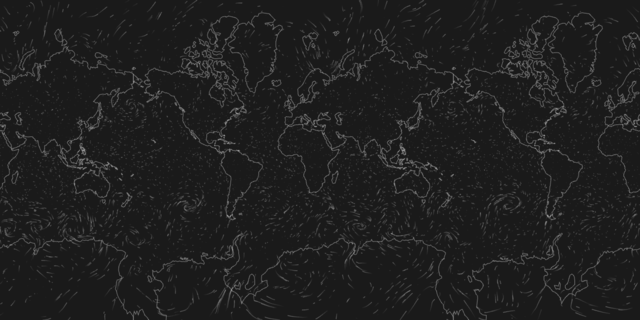
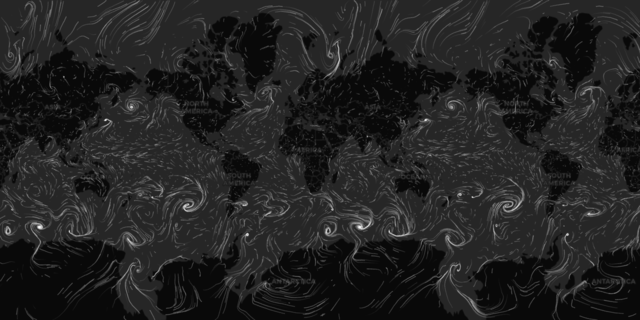
Use basemaps instead of land line

Changed region(s): [[0.0, 0.0, 1.0, 1.0], [0.5625, 0.2812, 0.5938, 0.3125], [0.0938, 0.9062, 0.125, 0.9375]]

diff --git a/docs/map.html b/docs/map.html
@@ -29,9 +29,6 @@
   <script type="module">
     import { initConfig, initGui, initFpsMeter } from './config.js';
 
-    const landUrl = 'https://d2ad6b4ur7yvpq.cloudfront.net/naturalearth-3.3.0/ne_110m_land.geojson';
-    const particleUrl = 'wind_data.png';
-
     window.addEventListener('DOMContentLoaded', () => {
       const config = initConfig();
 
@@ -76,30 +73,26 @@
       function update() {
         deckgl.setProps({
           layers: [
-            new deck.SolidPolygonLayer({
-              id: 'background',
-              data: [[[-180, 85.051129], [0, 85.051129], [180, 85.051129], [180, -85.051129], [0, -85.051129], [-180, -85.051129]]],
-              getPolygon: d => d,
-              stroked: false,
-              filled: true,
-              getFillColor: [26, 26, 26],
-            }),
-            new deck.GeoJsonLayer({
-              id: 'land',
-              data: landUrl,
-              stroked: true,
-              filled: false,
-              getLineColor: [255, 255, 255, 127],
-              getLineWidth: 1,
-              lineWidthUnits: 'pixels',
-              extensions: [new deck.ClipExtension()],
-              clipBounds: [-360, -85.051129, 360, 85.051129],
+            new deck.TileLayer({
+              id: 'basemap',
+              data: 'https://cartodb-basemaps-a.global.ssl.fastly.net/dark_all/{z}/{x}/{y}.png',
+              minZoom: 0,
+              maxZoom: 19,
+              tileSize: 256,
+              renderSubLayers: props => {
+                const {bbox: {west, south, east, north}} = props.tile;
+                return new deck.BitmapLayer(props, {
+                  data: null,
+                  image: props.data,
+                  bounds: [west, south, east, north]
+                });
+              },
             }),
             new DeckGlParticle.ParticleLayer({
               id: 'particle',
               maxAge: config.particle.maxAge,
               numParticles: config.particle.numParticles,
-              image: particleUrl,
+              image: 'wind_data.png',
               speedFactor: config.particle.speedFactor,
               color: config.particle.color,
               width: config.particle.width,

diff --git a/docs/globe.html b/docs/globe.html
@@ -30,9 +30,6 @@
     import { initConfig, initGui, initFpsMeter } from './config.js';
     import { Animation } from './animation.js';
 
-    const landUrl = 'https://d2ad6b4ur7yvpq.cloudfront.net/naturalearth-3.3.0/ne_50m_land.geojson';
-    const particleUrl = 'wind_data.png';
-
     window.addEventListener('DOMContentLoaded', () => {
       const config = initConfig();
 
@@ -84,19 +81,24 @@
               filled: true,
               getFillColor: [26, 26, 26],
             }),
-            new deck.GeoJsonLayer({
-              id: 'land',
-              data: landUrl,
-              stroked: true,
-              filled: false,
-              getLineColor: [255, 255, 255],
-              getLineWidth: 1,
-              lineWidthUnits: 'pixels',
-              opacity: 0.5,
+            new deck.TileLayer({
+              id: 'basemap',
+              data: 'https://cartodb-basemaps-a.global.ssl.fastly.net/dark_all/{z}/{x}/{y}.png',
+              minZoom: 0,
+              maxZoom: 19,
+              tileSize: 256,
+              renderSubLayers: props => {
+                const {bbox: {west, south, east, north}} = props.tile;
+                return new deck.BitmapLayer(props, {
+                  data: null,
+                  image: props.data,
+                  bounds: [west, south, east, north]
+                });
+              },
             }),
             new DeckGlParticle.ParticleLayer({
               id: 'particle',
-              image: particleUrl,
+              image: 'wind_data.png',
               numParticles: config.particle.numParticles,
               maxAge: config.particle.maxAge,
               speedFactor: config.particle.speedFactor,

diff --git a/README.md b/README.md
@@ -16,13 +16,11 @@ Particle simulation layer for deck.gl
 import { Deck } from '@deck.gl/core';
 import { ParticleLayer } from 'deck.gl-particle';
 
-const particleUrl = ...; // string
-
 const deckgl = new Deck({
   layers: [
     new ParticleLayer({
       id: 'particle',
-      image: particleUrl,
+      image: ..., // string (URL)
       numParticles: ..., // number
       maxAge: ..., // number
       speedFactor: ..., // number
